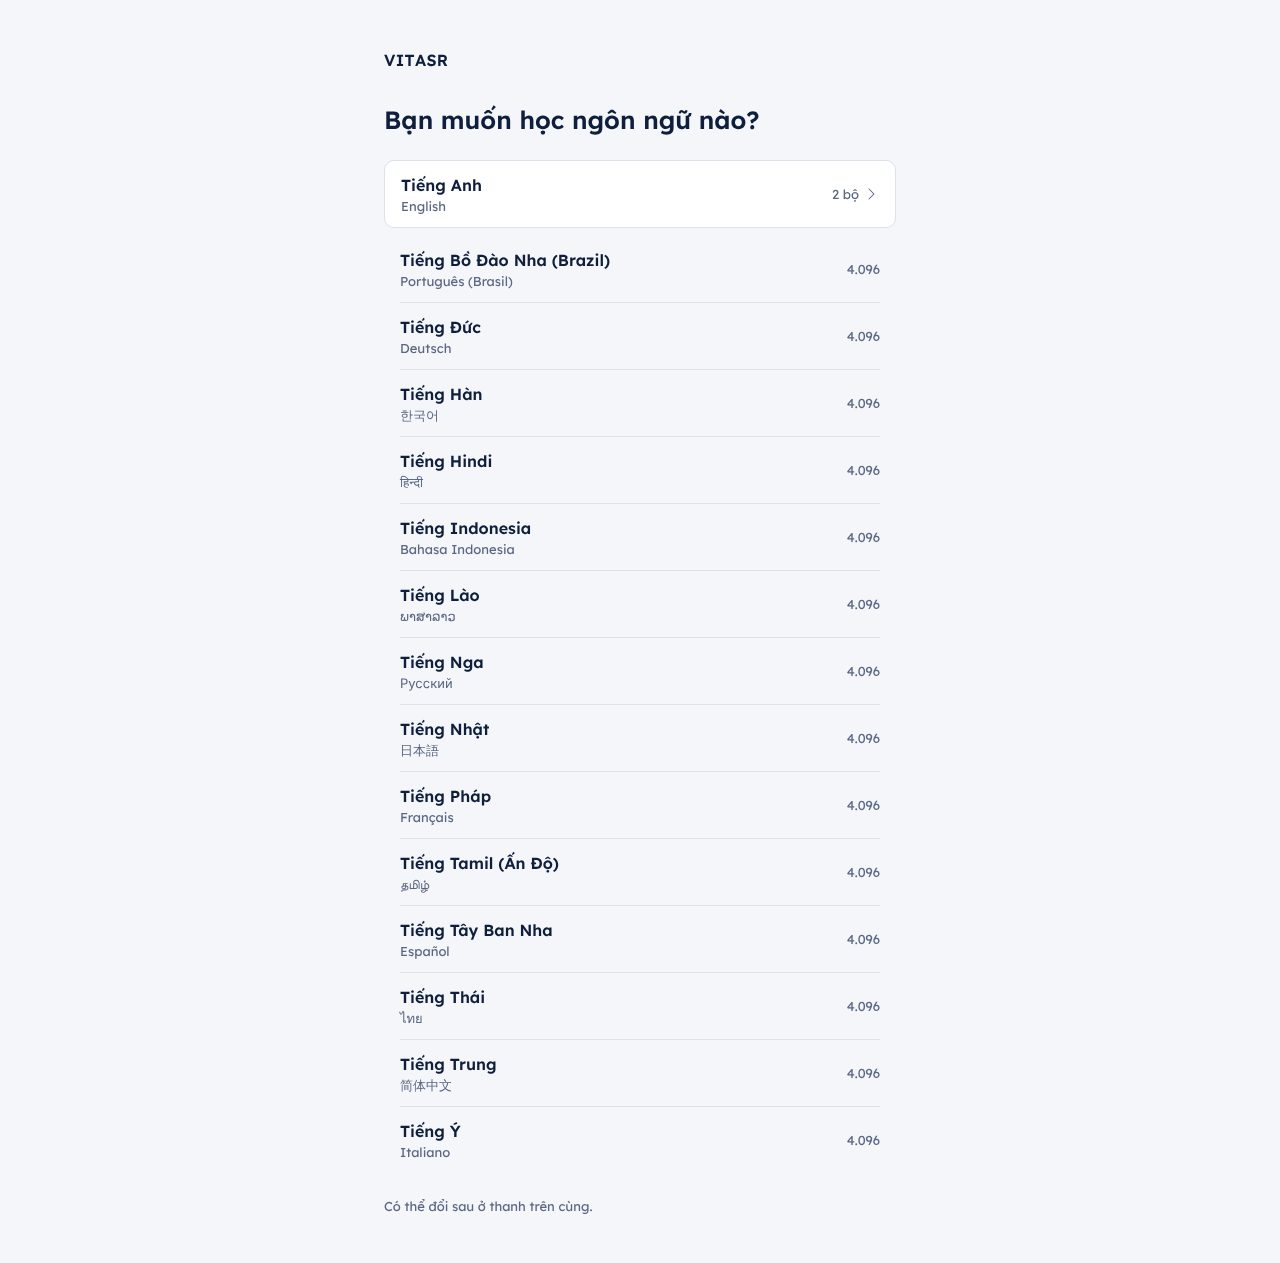
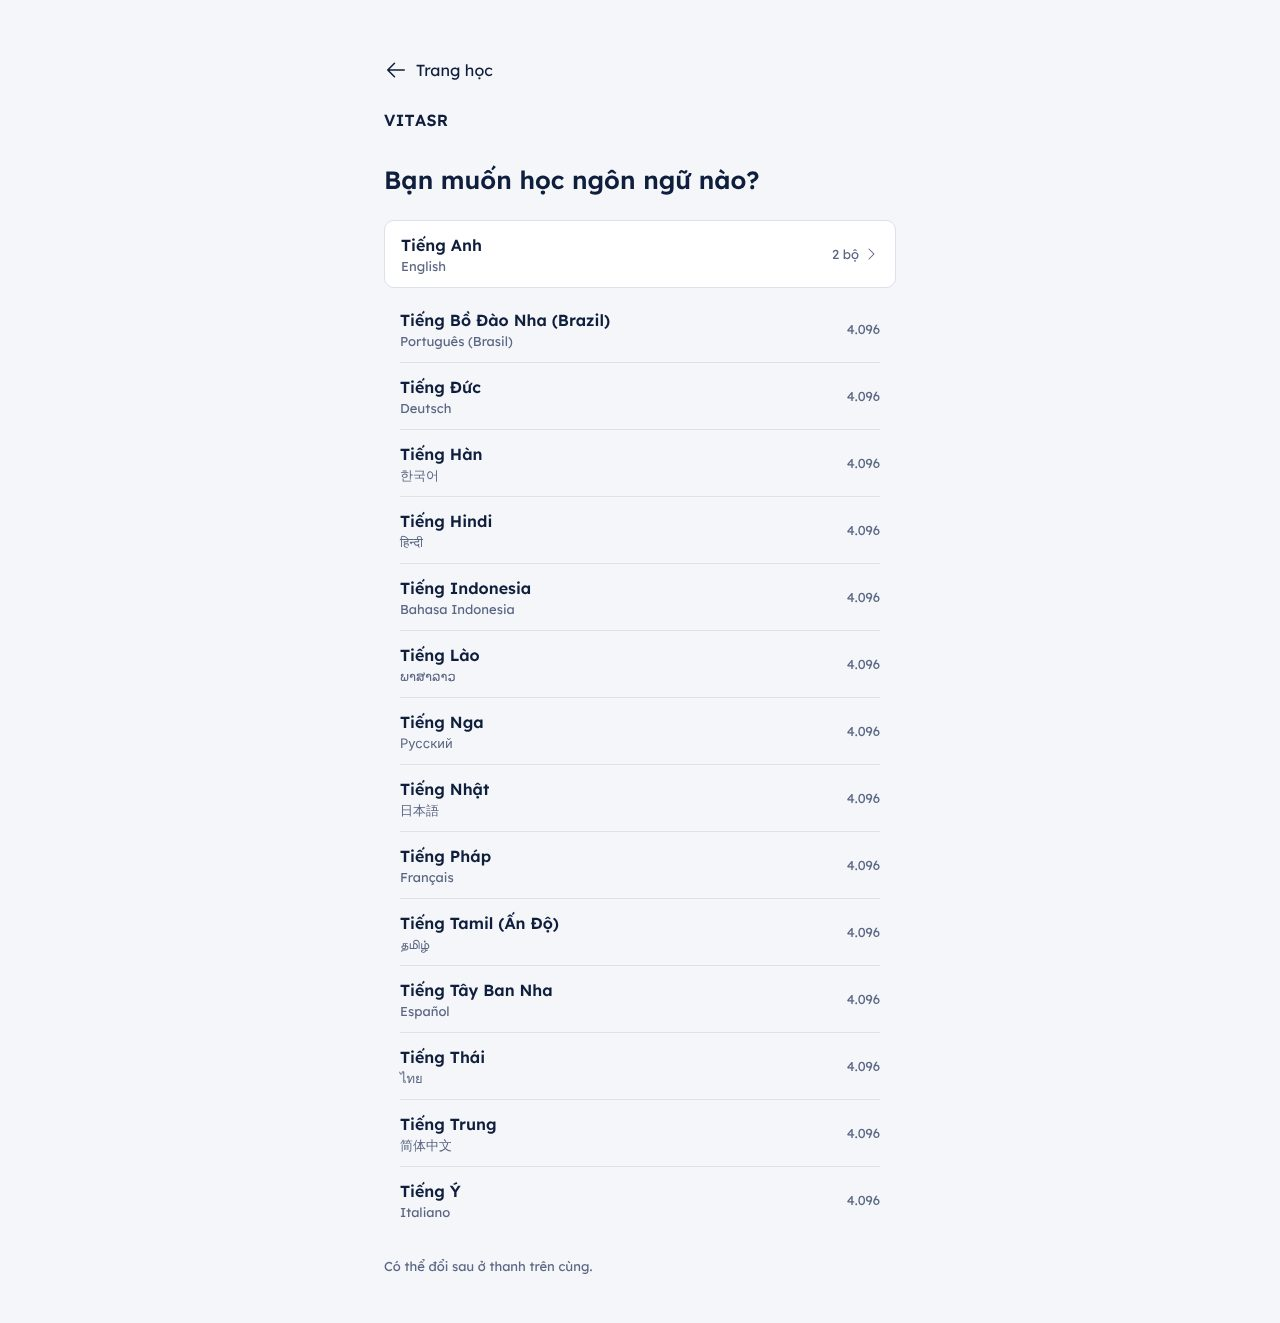
docs: kiểm lại APP-AC12, S1-AC02, FND-AC16 sau APP-12; chụp lại ảnh APP-AC03, APP-AC19

diff --git a/fe/tests/e2e/evidence2.spec.ts b/fe/tests/e2e/evidence2.spec.ts
@@ -369,6 +369,9 @@ test('FND-AC16 chỉ dùng bàn phím: T1 → S3 → tổng kết → T4', async
     }
     throw new Error(`Không tab tới được ${name}`);
   };
+  // Nút về trang học chính (APP-12) trên thanh trên cùng.
+  await focusTo('Quay lại trang học');
+  await shot(page, 'FND-AC16', '00-T1-focus-ve-trang-hoc');
   await focusTo(/Thư viện/);
   await shot(page, 'FND-AC16', '01-T1-focus-thanh-dieu-huong');
   await focusTo('Học 8 câu');

diff --git a/fe/src/app/acceptance.md b/fe/src/app/acceptance.md
@@ -7,7 +7,7 @@ Khổ kiểm mặc định và quy tắc đánh dấu: `docs/QUY-TRINH.md` mục
 - [x] APP-AC02 [auto] APP-01, APP-04: Test điều hướng: bấm lần lượt 4 mục thì hash đổi thành `#/hoc`, `#/luyen-tap`, `#/thu-vien`, `#/tien-bo` và đúng màn hiện ra.
   - Bằng chứng: test fe/tests/e2e/app.spec.ts pass (npm run test:e2e), Claude, 2026-10-10, chưa commit (đợt 2)
 - [x] APP-AC03 [claude] APP-02: Ảnh chụp T1 đến T4 ở 375 px và 1280 px có tên ngôn ngữ bên trái, nút Cài đặt bên phải.
-  - Bằng chứng: ảnh docs/evidence/APP-AC03/ chụp lại sau khi thêm nút về trang học (T1, T2, T3, T4 ở 375 và 1280 px, sáng và tối): nút về trang học ngoài cùng bên trái, tiếp theo là tên ngôn ngữ và tên bộ, nút Cài đặt bên phải, Claude, 2026-10-10, chưa commit (APP-12)
+  - Bằng chứng: ảnh docs/evidence/APP-AC03/ chụp lại sau khi thêm nút về trang học (T1, T2, T3, T4 ở 375 và 1280 px, sáng và tối): nút về trang học ngoài cùng bên trái, tiếp theo là tên ngôn ngữ và tên bộ, nút Cài đặt bên phải (chụp lại sau PR #7 cùng bản build mới), Claude, 2026-10-10, chưa commit (sửa sau PR #7)
 - [x] APP-AC04 [auto] APP-03: Ở `#/phien-hoc`, `#/kiem-tra`, `#/chon-ngon-ngu` không có thanh tab và thanh trên cùng trong DOM hiển thị; S3 và S5 có nút "Thoát".
   - Bằng chứng: test fe/tests/unit/app.test.tsx pass (npm test, npm run test:e2e), Claude, 2026-10-08, commit 97e85fa
 - [x] APP-AC05 [auto] APP-04: Mở route không hợp lệ thì chuyển về `#/hoc` (đã chọn ngôn ngữ) hoặc `#/chon-ngon-ngu` (chưa chọn). Nút Back của trình duyệt sau chuỗi T1 → T3 → T4 quay về T3 rồi T1.
@@ -25,7 +25,7 @@ Khổ kiểm mặc định và quy tắc đánh dấu: `docs/QUY-TRINH.md` mục
 - [x] APP-AC11 [auto] APP-08: Giả lập `navigator.onLine = false` và sự kiện `offline`: dải ngoại tuyến hiện; sự kiện `online` thì dải ẩn. Giả lập localStorage ném lỗi: dải cảnh báo bộ nhớ hiện.
   - Bằng chứng: test fe/tests/unit/app.test.tsx pass (npm test, npm run test:e2e), Claude, 2026-10-08, commit 97e85fa
 - [x] APP-AC12 [claude] APP-09: Nhúng bản build vào một trang thử có iframe 400 x 700 và 1100 x 700: app chạy đủ luồng T1 → S3 → tổng kết; tìm trong mã nguồn không có `window.top`, `window.parent`, `postMessage`.
-  - Bằng chứng: ảnh docs/evidence/APP-AC12/ (iframe 400x700 và 1100x700 đi hết T1 → S3 → tổng kết); tìm trong fe/src không có window.top, window.parent, postMessage, Claude, 2026-10-08, commit 97e85fa
+  - Bằng chứng: kiểm lại sau khi APP-09 đổi (10/10): chạy lại với bản build mới, ảnh docs/evidence/APP-AC12/ (iframe 400x700 và 1100x700 đi hết T1 → S3 → tổng kết); tìm trong fe/src không có window.top, window.parent, postMessage, Claude, 2026-10-10, chưa commit (sửa sau PR #7)
 - [ ] APP-AC13 [human] APP-07, APP-09: Mở app trên trình duyệt máy tính (Chrome, Edge, Safari) và trên điện thoại (iPhone, Android), mỗi nơi đi hết luồng chọn ngôn ngữ, học một phiên, xem tiến bộ: hiển thị đủ, không có điều khiển bị che hay tràn.
 - [ ] APP-AC14 [human] APP-10: Trên điện thoại thật: mở app có mạng, tắt mạng, đóng và mở lại app: vẫn học được ngôn ngữ đã tải.
 - [x] APP-AC15 [auto] APP-10: Giả lập service worker có bản mới: thông báo "Có bản cập nhật" hiện ở T1 nhưng không hiện khi đang ở S3; trang không tự tải lại.
@@ -37,5 +37,5 @@ Khổ kiểm mặc định và quy tắc đánh dấu: `docs/QUY-TRINH.md` mục
 - [x] APP-AC18 [auto] APP-12: Ở T1, T2, T3, T4 và S1 bước 1 có một liên kết nhãn trợ năng "Quay lại trang học" với `href` bằng `VITE_HOST_URL` (mặc định `https://language.pomaskhoahocnaobo.com/`); ở S1 bước 2, S3, S5 và S8 không có liên kết này. Bấm liên kết khi đang có phiên dở không mở sheet xác nhận nào.
   - Bằng chứng: test fe/tests/unit/app.test.tsx pass (npm test), Claude, 2026-10-10, chưa commit (APP-12)
 - [x] APP-AC19 [claude] APP-02, APP-12: Ảnh chụp thanh trên cùng của T1 ở 320, 375 và 1280 px, sáng và tối: nút về trang học nằm ngoài cùng bên trái, vùng chạm từ 44 x 44 px; từ 600 px có chữ "Trang học"; tên ngôn ngữ, tên bộ và nút Cài đặt không bị che hay cắt.
-  - Bằng chứng: ảnh và số đo docs/evidence/APP-AC19/ (320, 375, 600, 1280 px, sáng và tối; do-dac-light.json, do-dac-dark.json): nút 44 x 44 px ở 320 và 375 px, 130 x 44 px có chữ "Trang học" từ 600 px; nút, tên ngôn ngữ, nút Cài đặt không chồng nhau; không cuộn ngang; ảnh S1 bước 1 ở 320 và 1280 px, Claude, 2026-10-10, chưa commit (APP-12)
+  - Bằng chứng: ảnh và số đo docs/evidence/APP-AC19/ (320, 375, 600, 1280 px, sáng và tối; do-dac-light.json, do-dac-dark.json): nút 44 x 44 px ở 320 và 375 px, 130 x 44 px có chữ "Trang học" từ 600 px; nút, tên ngôn ngữ, nút Cài đặt không chồng nhau; không cuộn ngang; ảnh S1 bước 1 ở 320 và 1280 px (chụp lại sau PR #7: bỏ đường kẻ ngăn thừa bên phải nút ở S1 từ 600 px), Claude, 2026-10-10, chưa commit (sửa sau PR #7)
 - [ ] APP-AC20 [human] APP-09, APP-12: Trên trang học chính thật, đăng nhập, mở Đa ngôn ngữ: app mở ở trang mới. Bấm "Quay lại trang học": về đúng trang học chính và vẫn đăng nhập.

diff --git a/fe/src/foundation/acceptance.md b/fe/src/foundation/acceptance.md
@@ -28,5 +28,5 @@
 - [x] FND-AC15 [auto] FND-14: Chạy axe-core trên mọi route ở 375 px và 1280 px, sáng và tối: không có lỗi mức serious hoặc critical.
   - Bằng chứng: test fe/tests/e2e/app.spec.ts và fe/tests/e2e/dot2.spec.ts pass (npm run test:e2e), Claude, 2026-10-10, chưa commit (đợt 2)
 - [x] FND-AC16 [claude] FND-14: Đi hết luồng T1 → S3 → tổng kết → T4 chỉ bằng bàn phím; ảnh chụp viền focus thấy rõ ở mọi điều khiển.
-  - Bằng chứng: ảnh docs/evidence/FND-AC16/ (01 đến 10): đi T1 → S3 → tổng kết → T4 → sheet chi tiết ngày chỉ bằng Tab, Enter, Space, phím 1 đến 4, Esc; viền focus --brand thấy rõ ở thanh điều hướng, nút chính, thẻ câu, nút Câu tiếp, liên kết, bộ chọn khoảng, cột biểu đồ; đóng sheet thì focus về cột đã mở, Claude, 2026-10-10, chưa commit (đợt 2)
+  - Bằng chứng: chụp lại sau khi thanh trên cùng có nút về trang học (APP-12): ảnh docs/evidence/FND-AC16/ (00 đến 10): đi T1 → S3 → tổng kết → T4 → sheet chi tiết ngày chỉ bằng Tab, Enter, Space, phím 1 đến 4, Esc; viền focus --brand thấy rõ ở nút về trang học, thanh điều hướng, nút chính, thẻ câu, nút Câu tiếp, liên kết, bộ chọn khoảng, cột biểu đồ; đóng sheet thì focus về cột đã mở, Claude, 2026-10-10, chưa commit (sửa sau PR #7)
 - [ ] FND-AC17 [human] FND-14: Bật VoiceOver (iPhone) và TalkBack (Android): câu tiếng Anh được đọc bằng giọng tiếng Anh, nghĩa đọc bằng giọng tiếng Việt; đi được hết luồng học một phiên.

diff --git a/fe/src/pages/S1-chon-ngon-ngu/acceptance.md b/fe/src/pages/S1-chon-ngon-ngu/acceptance.md
@@ -3,7 +3,7 @@
 - [x] S1-AC01 [auto] S1-01: Với manifest fixture, dòng đầu là Tiếng Anh; các dòng sau theo thứ tự tên tiếng Việt tăng dần (so sánh `localeCompare` với `vi`).
   - Bằng chứng: test fe/tests/unit/app.test.tsx pass (npm test, npm run test:e2e), Claude, 2026-10-08, commit 97e85fa
 - [x] S1-AC02 [claude] S1-01, S1-02, S1-03, S1-05: Ảnh chụp ở 320 px, 375 px, 1280 px, sáng và tối: Tiếng Anh nằm trong khối viền; mỗi dòng có tên Việt, tên gốc, số câu "4.096" (riêng Tiếng Anh hiện "2 bộ" và mũi tên); có dòng chú thích cuối.
-  - Bằng chứng: ảnh docs/evidence/S1-AC02/, Claude, 2026-10-08, commit 97e85fa
+  - Bằng chứng: chụp lại sau khi S1 có nút về trang học (APP-12): ảnh docs/evidence/S1-AC02/ (320, 375, 1280 px, sáng và tối); Tiếng Anh trong khối viền, mỗi dòng có tên Việt, tên gốc, "4.096" (Tiếng Anh "2 bộ" và mũi tên), có dòng chú thích cuối, Claude, 2026-10-10, chưa commit (sửa sau PR #7)
 - [x] S1-AC03 [auto] S1-02: Với `source-index.json` của fixture, tên gốc của `ja` là "日本語", `ru` là "Русский", `en` là "English"; khi bỏ `source-index.json` và giả lập không có `Intl.DisplayNames`, dòng tên gốc không render và không lỗi.
   - Bằng chứng: test fe/tests/unit/app.test.tsx pass (npm test, npm run test:e2e), Claude, 2026-10-08, commit 97e85fa
 - [x] S1-AC04 [auto] S1-04: Chạm Tiếng Nhật: ngôn ngữ được lưu vào `vitasr2.settings`, hash thành `#/hoc`; trong lúc tải, các dòng khác bị khóa.
